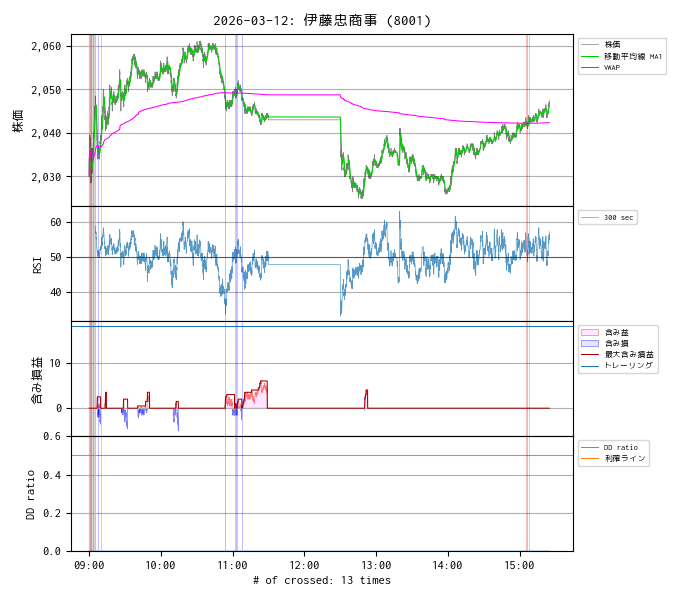
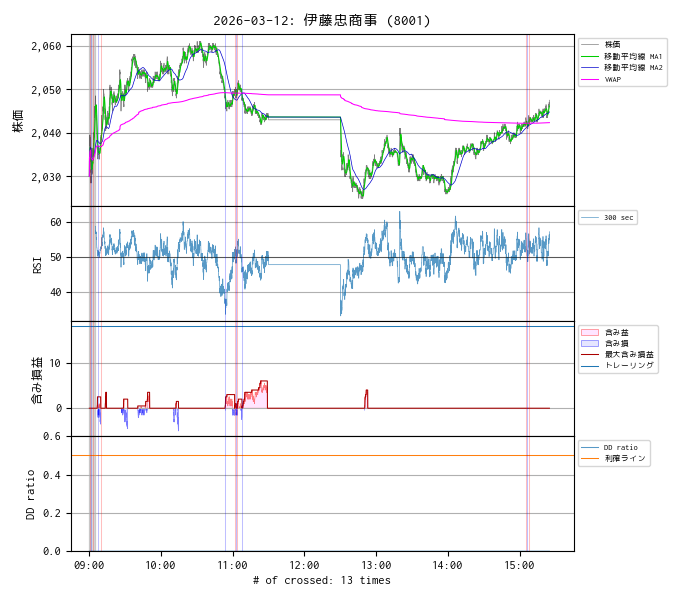
update

diff --git a/funcs/plot.py b/funcs/plot.py
@@ -474,6 +474,9 @@ def plot_price_vwap(ax: plt.Axes, df: DataFrame, title: str, dict_ts: dict[str, 
     # 株価と VWAP
     ax.plot(df["price"], linewidth=0.5, color="black", alpha=0.5, label="株価")
     ax.plot(df["ma1"], linewidth=0.75, color="#0c0", label="移動平均線 MA1")
+    # 評価用の移動平均 MA2
+    df["ma2"]=df["price"].rolling(300, min_periods=1).mean()
+    ax.plot(df["ma2"], linewidth=0.5, color="#00c", label="移動平均線 MA2")
     ax.plot(df["vwap"], linewidth=0.75, color="#f0f", label="VWAP")
 
     ax.set_ylabel("株価")
